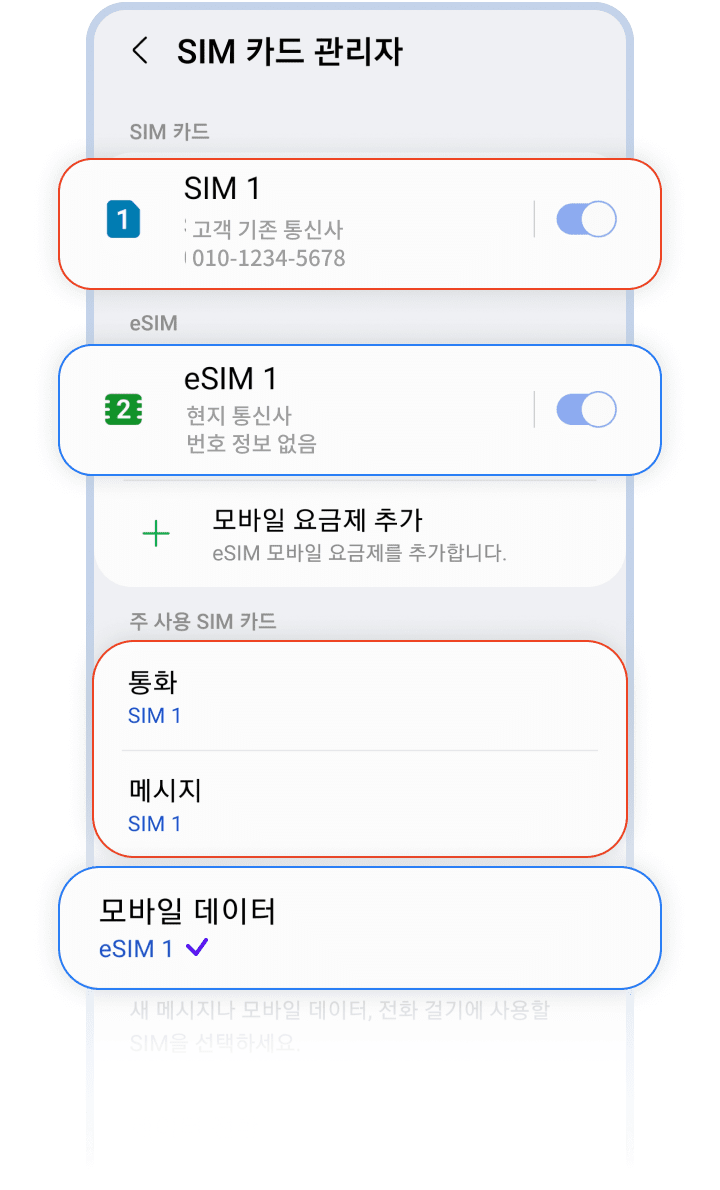
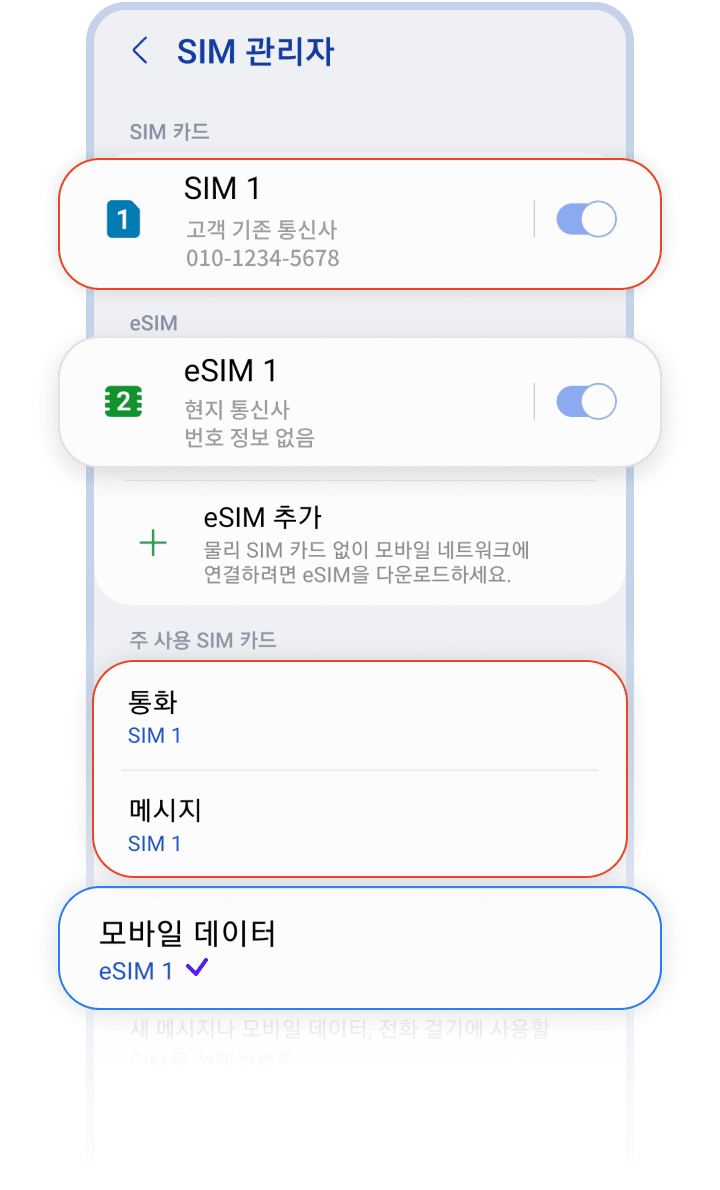
현지 설정확인 가이드 디자인 적용

diff --git a/screens/UserGuideScreen/model.tsx b/screens/UserGuideScreen/model.tsx
@@ -15,8 +15,9 @@ import {GuideOption} from './GuideHomeScreen';
 import {GuideRegion} from './GuideSelectRegionScreen';
 import AppSvgIcon from '@/components/AppSvgIcon';
 
-const {isIOS} = Env.get();
+// const {isIOS} = Env.get();
 
+const isIOS = false;
 const dir = '../../assets/images/esim/userGuide';
 
 const styles = StyleSheet.create({
@@ -245,6 +246,62 @@ const renderTipList = (
   </View>
 );
 
+const renderCaution = ({
+  title,
+  body,
+  isShow,
+}: {
+  title: string;
+  body: string[];
+  isShow: boolean;
+}) => {
+  console.log('aaaaa isshow', isShow);
+  if (!isShow) return null;
+
+  return (
+    <View style={{width: '100%', marginBottom: 16}}>
+      <View
+        style={{
+          backgroundColor: colors.veryLightBlue,
+          borderRadius: 16,
+          marginHorizontal: 30,
+          alignContent: 'center',
+          justifyContent: 'center',
+          paddingHorizontal: 20,
+          paddingVertical: 10,
+        }}>
+        <AppStyledText
+          text={i18n.t(title)}
+          textStyle={{
+            ...appStyles.bold14Text,
+            color: colors.clearBlue,
+            lineHeight: 18,
+          }}
+          format={{b: {fontWeight: '600'}}}
+        />
+        {body.length > 1
+          ? body.map((b) => (
+              <View style={{flexDirection: 'row'}}>
+                <AppText>{i18n.t('middleDot')}</AppText>
+                <AppStyledText
+                  text={i18n.t(b)}
+                  textStyle={{...appStyles.normal14Text, lineHeight: 18}}
+                  format={{b: {fontWeight: '600'}}}
+                />
+              </View>
+            ))
+          : body.map((b) => (
+              <AppStyledText
+                text={i18n.t(b)}
+                textStyle={styles.noticeBoxBody}
+                format={{b: {fontWeight: '600'}}}
+              />
+            ))}
+      </View>
+    </View>
+  );
+};
+
 const renderNoticeBox = (title: string, body: string) => (
   <View style={styles.noticeBox}>
     <AppText style={styles.noticeBoxTitle}>{i18n.t(title)}</AppText>
@@ -373,6 +430,7 @@ export const getImageList = (
       page1: [require(`${dir}/iconLocalCheck.png`)],
       page2: [require(`${dir}/android/checkSetting/img_3.png`)],
       page3: [require(`${dir}/android/checkSetting/img_4.png`)],
+      page3Local: [require(`${dir}/android/checkSetting/img_4_2.png`)],
       page4: [require(`${dir}/android/checkSetting/img_5.png`)],
       page5: [require(`${dir}/android/checkSetting/img_6.png`)],
       page5Local: [require(`${dir}/android/checkSetting/localNet/img_6.png`)],
@@ -389,6 +447,7 @@ export type GuideImage = {
   isHeader?: boolean;
   stepPreText?: string;
   tip?: () => JSX.Element | null;
+  caution?: (isCheckLocal: boolean) => JSX.Element | null;
   noticeBox?: () => JSX.Element | null;
   isLocalBox?: () => JSX.Element | null;
   caption?: string;
@@ -809,9 +868,18 @@ export const getGuideImages = (
       },
       {
         key: 'page3',
-        title: renderText(`userGuide:stepsTitle5:galaxy:checkSetting`),
+        title: renderText(`userGuide:stepsTitle5:galaxy:checkSetting`), // ysjoung
         step: 2,
         stepPreText: 'local',
+        caution: (isCheckLocal: boolean) =>
+          renderCaution({
+            title: 'userGuide:stepsTitle5:galaxy:caution:title',
+            body: [
+              'userGuide:stepsTitle5:galaxy:caution:body1',
+              'userGuide:stepsTitle5:galaxy:caution:body2',
+            ],
+            isShow: isCheckLocal, // 현지(로컬망)인 경우에 보여주도록 함
+          }),
       },
       {
         key: 'page4',
@@ -828,6 +896,12 @@ export const getGuideImages = (
         stepPreText: 'local',
         tip: () => tipView({id: 'userGuide:tipPage7:galaxy'}),
         localTip: () => tipView({id: 'userGuide:tipPage7:galaxy:localNet'}),
+        caution: (isCheckLocal: boolean) =>
+          renderCaution({
+            title: 'userGuide:stepsTitle7:galaxy:caution:title',
+            body: ['userGuide:stepsTitle7:galaxy:caution:body'],
+            isShow: isCheckLocal,
+          }),
       },
       {
         key: 'page6',

diff --git a/screens/UserGuideScreen/index.tsx b/screens/UserGuideScreen/index.tsx
@@ -379,7 +379,7 @@ const UserGuideScreen = () => {
             </View>
             {isCheckLocal && data.localTitle ? data.localTitle : data.title}
           </View>
-
+          {data.caution && data.caution(isCheckLocal)}
           {data.tip ? (
             <View
               style={
